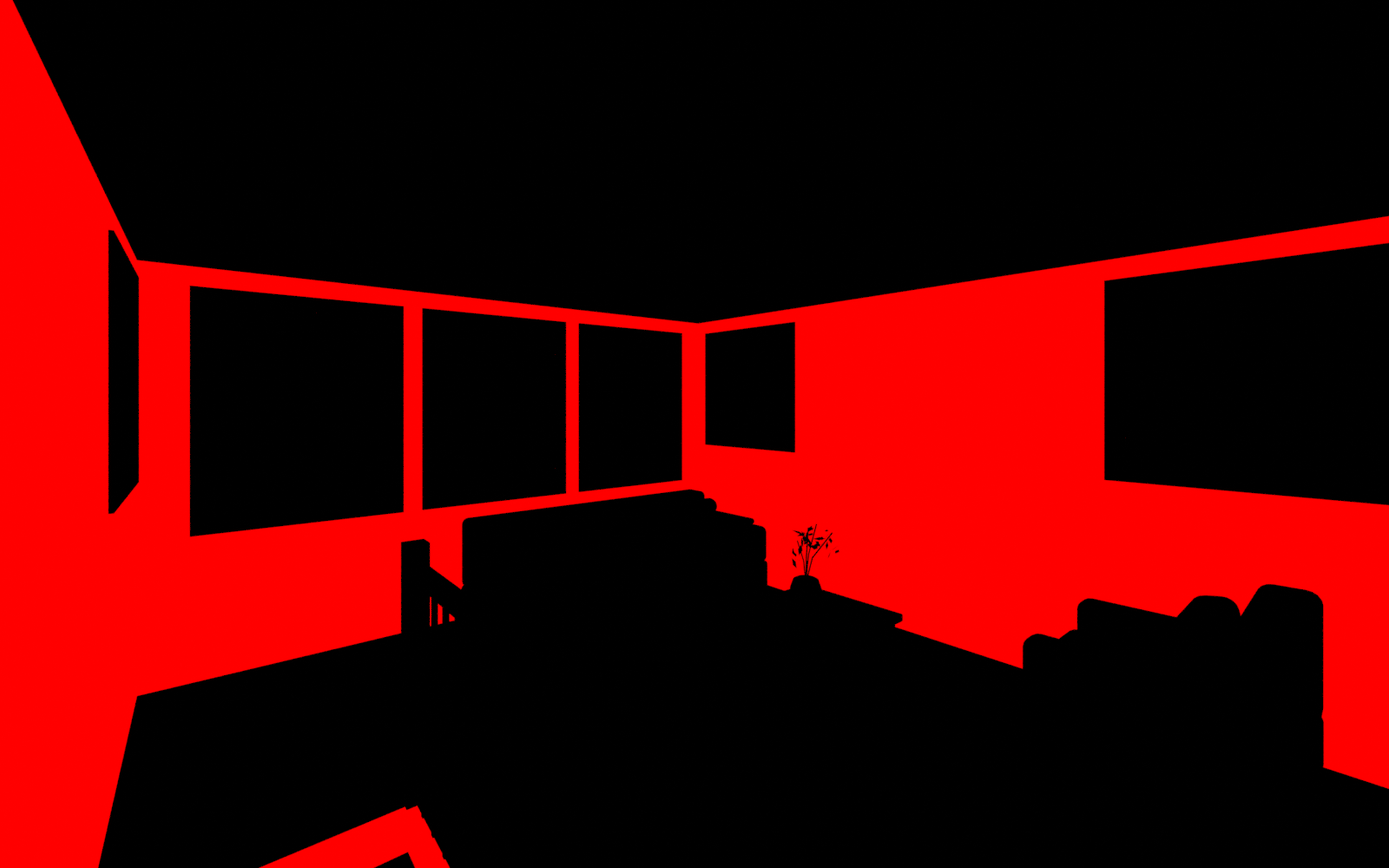
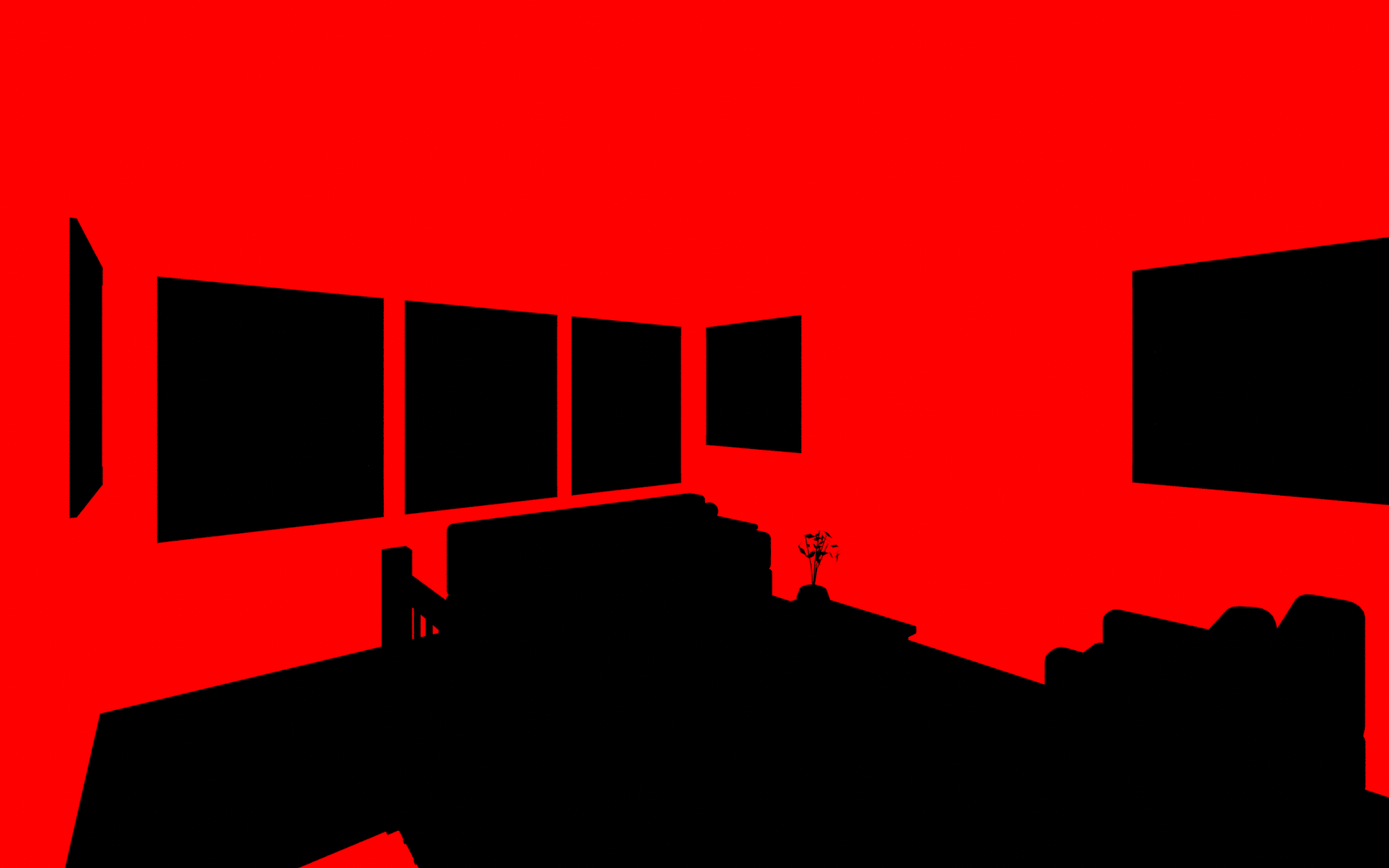
The Lookout 3500 2.0: lookout
The Lookout 3500 2.0 page: a picture redone.

- Lookout room re-rendered: afternoon sun, cased windows, a painted ceiling of its own; crown molding as a choice, flooring, wall paint, window frames and stair finishes as before.

Claude-Session: https://claude.ai/code/session_01LcUu1yMTHs7qUW5E51HSvp

diff --git a/lookout/site.js b/lookout/site.js
@@ -1,1 +1,1 @@
-window.SJ={"name":"The Lookout 3500 2.0","slug":"the-lookout-3500-2","tag":"One-and-a-half-story plan","sub":"Four bedrooms and three and a half baths in 3,760 square feet, with the primary suite on the main level, a lookout room on the roof and a three-car garage.","stats":[["3,760","sq ft finished"],["4","bedrooms"],["3.5","baths"],["3","car garage"],["Main-level","primary suite"],["14 x 16","lookout room"]],"hero":{"day":"img/hero-day.jpg","night":"img/hero-dusk.jpg"},"views":[{"id":"hero","name":"Front","kind":"ext","keys":["fas","fd","fdc","g","gdc","lk","prf","pst","rof","sid","trm","win"]},{"id":"yard","name":"Back yard","kind":"ext","keys":["fas","g","lk","pl","prf","pst","rof","sid","trm","win"]},{"id":"great","name":"Living room","kind":"int","keys":["bi","clg","cr","flr","fp","hwc","idc","ids","wal","win"]},{"id":"kitchen","name":"Kitchen","kind":"int","keys":["bsp","cab","cr","ctr","flr","hwc","isl","wal","win"]},{"id":"dining","name":"Dining room","kind":"int","keys":["cr","flr","wal","win"]},{"id":"foyer","name":"Foyer","kind":"int","keys":["cr","fd","fdc","flr","hwc","sf","sr","wal","win"]},{"id":"primary","name":"Primary bedroom","kind":"int","keys":["cr","flr","wal","win"]},{"id":"bath","name":"Primary bath","kind":"int","keys":["btl","cr","ctr","hwc","shw","vcab","wal","win"],"scope":"pb"},{"id":"office","name":"Loft over the primary closet","kind":"int","keys":["cr","flr","hwc","lof","sf","sr","wal","win"]},{"id":"loft","name":"Upstairs loft","kind":"int","keys":["cr","wal","win"]},{"id":"lookout","name":"Lookout room","kind":"int","keys":["sf","sr","wal","win"],"veil":{"when":{"lk":"0"},"keys":["sf","sr","wal","win"],"note":"Shows in this picture when the lookout room is chosen"}},{"id":"bed2","name":"Bedroom 2","kind":"int","keys":["cpt","cr","uf","wal","win"]},{"id":"bed4","name":"Bedroom 4","kind":"int","keys":["cpt","cr","hwc","idc","ids","uf","wal","win"]},{"id":"bath3","name":"Bath 3","kind":"int","keys":["btl","cr","ctr","hwc","idc","ids","shw","vcab","wal"],"scope":"b3"},{"id":"lounge","name":"Lower level lounge","kind":"int","keys":["b","cab","ctr","hwc","isl","wal"],"veil":{"when":{"b":"u"},"keys":["cab","ctr","hwc","isl","wal"],"note":"Shows in this picture once the lower level is finished"}},{"id":"bar","name":"Lower level bar","kind":"int","keys":["b","ctr","hwc","isl","wal"],"veil":{"when":{"b":"u"},"keys":["ctr","hwc","isl","wal"],"note":"Shows in this picture once the lower level is finished"}}],"baths":[{"id":"pb","name":"Primary bath","keys":["vcab","ctr","shw","btl","hwc","wal"]},{"id":"b3","name":"Bath 3","keys":["vcab","ctr","shw","btl","hwc","wal"]}],"bathkeys":["vcab","ctr","shw","btl","hwc","wal"],"opts":[{"key":"lk","name":"Lookout room","cat":"ext","ch":[{"id":"1","name":"Lookout room on the roof (as drawn)"},{"id":"0","name":"No lookout"}],"note":"The lookout room sits on the roof, 14 x 16 ft with windows all around, reached by its own stair."},{"key":"g","name":"Garage entry","cat":"ext","ch":[{"id":"f","name":"Front entry (as drawn)"},{"id":"s","name":"Side entry, with a motor court"}],"note":"Side entry: the garage wing is re-proportioned and its doors face a motor court at the side; windows take their place on the front."},{"key":"pl","name":"Pool","cat":"ext","ch":[{"id":"n","name":"No pool (as drawn)"},{"id":"1","name":"Lap pool, 10 x 45 ft"},{"id":"2","name":"Plunge pool with a raised spa"},{"id":"3","name":"Courtyard pool with a shade pavilion"}],"note":"The pools sit behind the covered deck, on a paved terrace one step above the lawn."},{"key":"sid","name":"Siding colour","cat":"ext","ch":[{"id":"white","name":"Chantilly White","css":"#F1EFE8"},{"id":"cream","name":"Warm Cream","css":"#E6DCC6"},{"id":"greige","name":"Pebble Greige","css":"#B9B2A3"},{"id":"sage","name":"Sage","css":"#8E9A86"},{"id":"blue","name":"Harbor Blue","css":"#5E768A"},{"id":"navy","name":"Midnight Navy","css":"#28364A"},{"id":"iron","name":"Iron Gray","css":"#45484A"},{"id":"black","name":"Tricorn Black","css":"#222325"}]},{"key":"trm","name":"Trim and corner boards","cat":"ext","ch":[{"id":"white","name":"White","css":"#F4F2EC"},{"id":"cream","name":"Cream","css":"#E9E1CF"},{"id":"black","name":"Black","css":"#1E1F21"},{"id":"bronze","name":"Dark Bronze","css":"#3A322B"}]},{"key":"rof","name":"Roof shingles","cat":"ext","ch":[{"id":"char","name":"Charcoal","css":"linear-gradient(180deg,#33353A 0 50%,#45474C 50%)"},{"id":"onyx","name":"Onyx Black","css":"linear-gradient(180deg,#1D1E21 0 50%,#2A2B2F 50%)"},{"id":"wood","name":"Weathered Wood","css":"linear-gradient(180deg,#5E554B 0 50%,#7A6F62 50%)"},{"id":"slate","name":"Slate Gray","css":"linear-gradient(180deg,#4D5560 0 50%,#69717C 50%)"},{"id":"brown","name":"Barkwood","css":"linear-gradient(180deg,#41342B 0 50%,#5B4A3D 50%)"}]},{"key":"prf","name":"Porch, lookout and accent roofs","cat":"ext","ch":[{"id":"metal","name":"Black standing seam","css":"repeating-linear-gradient(90deg,#1b1c1f 0 7px,#34363a 7px 9px)"},{"id":"copper","name":"Copper standing seam","css":"repeating-linear-gradient(90deg,#9A5A34 0 7px,#c07c4c 7px 9px)"},{"id":"match","name":"Shingles to match","css":"repeating-linear-gradient(0deg,#2a2b2f 0 5px,#1d1e21 5px 10px)"}]},{"key":"fas","name":"Gutters and downspouts","cat":"ext","ch":[{"id":"white","name":"White","css":"#F2F0EA"},{"id":"black","name":"Black","css":"#1B1C1E"},{"id":"bronze","name":"Dark Bronze","css":"#3A322B"}]},{"key":"win","name":"Window frames","cat":"ext","ch":[{"id":"black","name":"Black","css":"#18191B"},{"id":"white","name":"White","css":"#F0EEE8"},{"id":"bronze","name":"Bronze","css":"#3B3129"},{"id":"clay","name":"Clay","css":"#A89F8E"}]},{"key":"fd","name":"Front door","cat":"ext","ch":[{"id":"g","name":"Double doors, glass over a panel"},{"id":"s","name":"Steel-look glass double doors"},{"id":"c","name":"Craftsman door with sidelights"},{"id":"p","name":"Panelled double doors"}],"note":"Every design comes with a transom over the door; its colour is the next choice."},{"key":"fdc","name":"Front door colour","cat":"ext","ch":[{"id":"wood","name":"Stained Walnut","css":"linear-gradient(135deg,#6A4226,#4A2C18)"},{"id":"black","name":"Black","css":"#161719"},{"id":"navy","name":"Navy","css":"#22324A"},{"id":"red","name":"Barn Red","css":"#6E1F1B"},{"id":"teal","name":"Deep Teal","css":"#1F4A4C"},{"id":"sage","name":"Sage","css":"#7C8A74"},{"id":"white","name":"White","css":"#F0EEE8"}]},{"key":"gdc","name":"Garage door colour","cat":"ext","ch":[{"id":"white","name":"White","css":"#EFEDE7"},{"id":"black","name":"Black","css":"#18191B"},{"id":"iron","name":"Iron Gray","css":"#4A4C4E"},{"id":"bronze","name":"Bronze","css":"#3B3129"},{"id":"wood","name":"Walnut","css":"linear-gradient(135deg,#6A4226,#4A2C18)"}]},{"key":"pst","name":"Porch posts and beams","cat":"ext","ch":[{"id":"cedar","name":"Stained cedar","css":"linear-gradient(135deg,#96663A,#774E28)"},{"id":"white","name":"White","css":"#EFEDE7"},{"id":"black","name":"Black","css":"#1F2022"}]},{"key":"b","name":"Lower level","cat":"int","ch":[{"id":"u","name":"Unfinished (as drawn)"},{"id":"f","name":"Finished"}]},{"key":"lof","name":"Loft over the primary closet","cat":"int","ch":[{"id":"o","name":"Home office"},{"id":"l","name":"Library"},{"id":"r","name":"Retreat"}],"note":"The room over the primary closet, up its own spiral stair: 13 x 11 ft with windows on all four sides."},{"key":"clg","name":"Living room ceiling","cat":"int","ch":[{"id":"c","name":"Coffered, painted"},{"id":"o","name":"Coffered, oak beams"},{"id":"b","name":"Timber beams"},{"id":"t","name":"Tray ceiling"}],"note":"Coffers: nine panels framed by beams, centred on the fireplace, with a ring chandelier in the middle."},{"key":"cr","name":"Crown molding","cat":"int","ch":[{"id":"n","name":"None"},{"id":"c","name":"Classic crown, 5 1/4 in."},{"id":"f","name":"Craftsman, flat with a cap"}],"note":"Runs on every wall that meets a flat ceiling: the main level, upstairs, the lookout room, the loft over the closet and the finished lower level."},{"key":"fp","name":"Fireplace","cat":"int","ch":[{"id":"stone","name":"Stacked stone (as drawn)","css":"repeating-linear-gradient(0deg,#8f887c 0 4px,#6f695f 4px 5px)"},{"id":"white","name":"White stacked stone","css":"repeating-linear-gradient(0deg,#E9E6DF 0 4px,#c4c0b7 4px 5px)"},{"id":"brick","name":"Red brick","css":"repeating-linear-gradient(0deg,#8E4A36 0 5px,#B9B2A6 5px 6px)"},{"id":"wbrick","name":"White painted brick","css":"repeating-linear-gradient(0deg,#EDEAE3 0 5px,#cfcbc2 5px 6px)"},{"id":"slate","name":"Charcoal slate tile","css":"repeating-linear-gradient(90deg,#3B3D40 0 12px,#1F2022 12px 13px)"}]},{"key":"bi","name":"Fireplace built-ins","cat":"int","ch":[{"id":"c","name":"Cabinets with oak tops (as drawn)"},{"id":"s","name":"Cabinets and shelves to the ceiling"},{"id":"n","name":"None"}],"note":"The built-ins stand on both sides of the fireplace."},{"key":"ids","name":"Interior door style","cat":"int","ch":[{"id":"s","name":"Two-panel Shaker"},{"id":"f","name":"Five-panel"},{"id":"c","name":"Craftsman, three-panel"}],"note":"8 ft doors on the main level, 6 ft 8 in. upstairs; every opening is cased, with a cap over the head."},{"key":"idc","name":"Interior doors","cat":"int","ch":[{"id":"white","name":"White","css":"#F2F0EA"},{"id":"black","name":"Black","css":"#1E1F21"},{"id":"grey","name":"Gray","css":"#8F9190"},{"id":"oak","name":"Natural oak","css":"linear-gradient(135deg,#B9905E,#A67C4C)"}]},{"key":"sf","name":"Stair treads and handrails","cat":"int","ch":[{"id":"o","name":"Natural oak (as drawn)","css":"linear-gradient(135deg,#B9905E,#A67C4C)"},{"id":"d","name":"Walnut","css":"linear-gradient(135deg,#6A4A32,#573B27)"},{"id":"k","name":"Ebony","css":"linear-gradient(135deg,#30261F,#211A15)"},{"id":"w","name":"Whitewashed oak","css":"linear-gradient(135deg,#D9CDB8,#C9BCA4)"}]},{"key":"sr","name":"Stair balusters","cat":"int","ch":[{"id":"k","name":"Black iron","css":"#141414"},{"id":"w","name":"White","css":"#EFEDE7"},{"id":"b","name":"Satin brass","css":"#B08A4A"}]},{"key":"flr","name":"Hardwood flooring","cat":"int","ch":[{"id":"oak","name":"Natural Oak Plank","css":"repeating-linear-gradient(90deg,#B08F68 0 9px,#9C7B55 9px 18px)"},{"id":"honey","name":"Honey Oak","css":"repeating-linear-gradient(90deg,#B8834A 0 9px,#A2703C 9px 18px)"},{"id":"grey","name":"Driftwood Gray","css":"repeating-linear-gradient(90deg,#9A9288 0 9px,#857D73 9px 18px)"},{"id":"walnut","name":"Walnut","css":"repeating-linear-gradient(90deg,#6A4A32 0 9px,#573B27 9px 18px)"},{"id":"white","name":"Whitewashed","css":"repeating-linear-gradient(90deg,#CFC3B0 0 9px,#BFB29E 9px 18px)"}]},{"key":"uf","name":"Bedroom flooring","cat":"int","ch":[{"id":"c","name":"Carpet (as shown)","css":"repeating-linear-gradient(45deg,#C9C0AE 0 3px,#BDB4A2 3px 6px)"},{"id":"oak","name":"Natural Oak Plank","css":"repeating-linear-gradient(90deg,#B08F68 0 9px,#9C7B55 9px 18px)"},{"id":"honey","name":"Honey Oak","css":"repeating-linear-gradient(90deg,#B8834A 0 9px,#A2703C 9px 18px)"},{"id":"grey","name":"Driftwood Gray","css":"repeating-linear-gradient(90deg,#9A9288 0 9px,#857D73 9px 18px)"},{"id":"walnut","name":"Walnut","css":"repeating-linear-gradient(90deg,#6A4A32 0 9px,#573B27 9px 18px)"},{"id":"white","name":"Whitewashed","css":"repeating-linear-gradient(90deg,#CFC3B0 0 9px,#BFB29E 9px 18px)"}]},{"key":"cpt","name":"Carpet","cat":"int","ch":[{"id":"oat","name":"Oatmeal","css":"#C9C0AE"},{"id":"grey","name":"Silver","css":"#B5B3AE"},{"id":"taupe","name":"Taupe","css":"#A39685"}],"only":{"uf":"c"}},{"key":"wal","name":"Wall paint","cat":"int","ch":[{"id":"alab","name":"Alabaster","css":"#EDEAE0"},{"id":"grey","name":"Agreeable Gray","css":"#D1CBC1"},{"id":"greige","name":"Accessible Beige","css":"#D1C7B8"},{"id":"blue","name":"Sea Salt","css":"#CDD2CA"},{"id":"white","name":"Pure White","css":"#F2F0EB"}],"bname":"Wall paint"},{"key":"cab","name":"Kitchen cabinets","cat":"int","ch":[{"id":"white","name":"White Shaker","css":"#EFEDE7"},{"id":"grey","name":"Dove Gray","css":"#A9ABA8"},{"id":"sage","name":"Sage","css":"#8A967F"},{"id":"navy","name":"Navy","css":"#27364B"},{"id":"black","name":"Black","css":"#1F2022"},{"id":"oak","name":"Natural Oak","css":"linear-gradient(135deg,#B9905E,#A67C4C)"}]},{"key":"isl","name":"Island and range hood","cat":"int","ch":[{"id":"navy","name":"Navy","css":"#27364B"},{"id":"white","name":"White","css":"#EFEDE7"},{"id":"oak","name":"Natural Oak","css":"linear-gradient(135deg,#B9905E,#A67C4C)"},{"id":"black","name":"Black","css":"#1F2022"},{"id":"sage","name":"Sage","css":"#8A967F"}]},{"key":"ctr","name":"Countertops","cat":"int","ch":[{"id":"white","name":"White Quartz","css":"#EEEBE4"},{"id":"marble","name":"Marble-look Quartz","css":"linear-gradient(120deg,#ECE9E3 0 40%,#b9b6ae 44%,#ECE9E3 48% 70%,#c9c6be 74%,#ECE9E3 78%)"},{"id":"black","name":"Black Granite","css":"linear-gradient(120deg,#17181A 0 55%,#4a4a48 60%,#17181A 65%)"},{"id":"grey","name":"Concrete Gray","css":"#9A9894"}],"bname":"Vanity tops"},{"key":"bsp","name":"Backsplash","cat":"int","ch":[{"id":"slab","name":"Marble slab","css":"linear-gradient(120deg,#ECE9E3 0 40%,#b9b6ae 44%,#ECE9E3 48% 70%,#c9c6be 74%,#ECE9E3 78%)"},{"id":"subway","name":"White Subway","css":"repeating-linear-gradient(0deg,#F0EEE8 0 8px,#cfccc4 8px 9px)"},{"id":"green","name":"Sage Zellige","css":"repeating-linear-gradient(0deg,#8FA08A 0 8px,#6f806a 8px 9px)"},{"id":"grey","name":"Gray Subway","css":"repeating-linear-gradient(0deg,#B4B6B4 0 8px,#8f918f 8px 9px)"},{"id":"black","name":"Black Subway","css":"repeating-linear-gradient(0deg,#232426 0 8px,#6A6A68 8px 9px)"}]},{"key":"vcab","name":"Bathroom vanities","cat":"int","ch":[{"id":"oak","name":"Natural oak","css":"linear-gradient(135deg,#B9905E,#A67C4C)"},{"id":"white","name":"White","css":"#EFEDE7"},{"id":"navy","name":"Navy","css":"#27364B"},{"id":"sage","name":"Sage","css":"#8A967F"},{"id":"black","name":"Black","css":"#1F2022"},{"id":"walnut","name":"Walnut","css":"linear-gradient(135deg,#6A4A32,#573B27)"}],"bname":"Vanity cabinets","bathonly":1},{"key":"shw","name":"Shower walls","cat":"int","ch":[{"id":"slab","name":"Marble slab","css":"linear-gradient(120deg,#ECE9E3 0 40%,#b9b6ae 44%,#ECE9E3 48% 70%,#c9c6be 74%,#ECE9E3 78%)"},{"id":"subway","name":"White subway tile","css":"repeating-linear-gradient(0deg,#F0EEE8 0 8px,#cfccc4 8px 9px)"},{"id":"zel","name":"Sage zellige","css":"repeating-linear-gradient(0deg,#8FA08A 0 8px,#6f806a 8px 9px)"},{"id":"slate","name":"Charcoal slate","css":"repeating-linear-gradient(90deg,#3B3D40 0 14px,#1F2022 14px 15px)"},{"id":"trav","name":"Warm limestone","css":"repeating-linear-gradient(90deg,#D9CDB8 0 14px,#B8AC96 14px 15px)"}],"note":"The primary bath's wet room, and the wall behind the tub in each upstairs bath.","bname":"Shower walls","bathonly":1},{"key":"btl","name":"Bath floor tile","cat":"int","ch":[{"id":"w","name":"White porcelain","css":"repeating-linear-gradient(90deg,#EDEBE6 0 12px,#B9B6AE 12px 13px)"},{"id":"g","name":"Warm gray","css":"repeating-linear-gradient(90deg,#B9B2A6 0 12px,#8C867B 12px 13px)"},{"id":"m","name":"Marble look","css":"linear-gradient(120deg,#ECEAE6 0 40%,#c4c1bb 46%,#ECEAE6 52%)"},{"id":"c","name":"Charcoal slate","css":"repeating-linear-gradient(90deg,#4A4C4F 0 12px,#2C2D2F 12px 13px)"}],"bname":"Floor tile","bathonly":1},{"key":"hwc","name":"Hardware and faucets","cat":"int","ch":[{"id":"brass","name":"Satin Brass","css":"#B08A4A"},{"id":"black","name":"Matte Black","css":"#101011"},{"id":"nickel","name":"Satin Nickel","css":"#9A9A98"}],"bname":"Faucets and hardware"}],"defaults":{"sid":"white","trm":"white","fas":"white","win":"black","fdc":"wood","gdc":"white","rof":"char","prf":"metal","lk":"1","g":"f","b":"u","pl":"n","fd":"g","pst":"cedar","clg":"c","cr":"n","fp":"stone","bi":"c","sf":"o","sr":"k","idc":"white","ids":"s","lof":"o","hwc":"brass","wal":"alab","cab":"white","isl":"navy","ctr":"marble","bsp":"slab","vcab":"oak","shw":"slab","btl":"w","flr":"oak","cpt":"oat","uf":"c"},"gallery":[],"looks":[{"cat":"ext","name":"Modern farmhouse (as drawn)","set":{}},{"cat":"ext","name":"Midnight and copper","set":{"sid":"navy","prf":"copper","gdc":"wood","rof":"onyx"}},{"cat":"ext","name":"Sage cottage","set":{"sid":"sage","trm":"cream","fas":"bronze","win":"white","rof":"wood","fdc":"navy","fd":"c"}},{"cat":"ext","name":"Charcoal modern","set":{"sid":"iron","trm":"black","fas":"black","rof":"onyx","gdc":"black","fdc":"black","fd":"s"}},{"cat":"ext","name":"Coastal blue","set":{"sid":"blue","win":"white","rof":"slate","fdc":"navy"}},{"cat":"ext","name":"Warm greige","set":{"sid":"greige","trm":"cream","fas":"bronze","win":"bronze","rof":"brown","gdc":"bronze","fd":"p"}},{"cat":"ext","name":"Black barn","set":{"sid":"black","trm":"black","fas":"black","gdc":"wood","prf":"copper","fd":"p"}},{"cat":"int","name":"Light and warm (as shown)","set":{}},{"cat":"int","name":"Warm oak","set":{"isl":"oak","ctr":"marble","flr":"honey","wal":"greige","clg":"o","cr":"f","ids":"c"}},{"cat":"int","name":"Deep and moody","set":{"cab":"navy","bsp":"grey","flr":"walnut","wal":"grey","idc":"black","clg":"b","cr":"c","vcab":"navy","shw":"slate","lof":"l"}},{"cat":"int","name":"Scandinavian","set":{"isl":"white","flr":"white","wal":"white","hwc":"black","clg":"t","ids":"f","vcab":"white","shw":"subway"}},{"cat":"int","name":"Sage kitchen","set":{"cab":"sage","isl":"oak","bsp":"green","vcab":"sage","shw":"zel","lof":"r"}},{"cat":"int","name":"Black and white","set":{"cab":"black","isl":"white","ctr":"marble","flr":"grey","wal":"white","hwc":"nickel","idc":"black","ids":"c","cr":"c","vcab":"black","shw":"subway"}},{"cat":"int","name":"Everything added","set":{"cr":"c","clg":"o","bi":"s","ids":"c","lof":"l","b":"f"}}],"plan_lead":"Each level seen from straight above, with everything over it taken away. Furniture is illustrative.","plans":[{"id":"main_f","name":"Main level","note":"2,144 sq ft: living, dining and kitchen in the core, the primary suite in its own wing, a three-car garage","svg":"<img src=\"img/plan-main_f.jpg\" alt=\"Main level, seen from above with the levels over it taken away\" style=\"width:100%;height:auto;display:block;border-radius:10px\">"},{"id":"main_s","name":"Main level, side-entry garage","note":"The same rooms; the garage wing is re-proportioned and entered from a motor court at the side","svg":"<img src=\"img/plan-main_s.jpg\" alt=\"Main level, side-entry garage, seen from above with the levels over it taken away\" style=\"width:100%;height:auto;display:block;border-radius:10px\">"},{"id":"upper","name":"Upstairs","note":"1,224 sq ft: three bedrooms, two baths, the loft and a laundry; the office loft sits over the primary closet","svg":"<img src=\"img/plan-upper.jpg\" alt=\"Upstairs, seen from above with the levels over it taken away\" style=\"width:100%;height:auto;display:block;border-radius:10px\">"},{"id":"look","name":"Lookout","note":"224 sq ft: the lookout room on the roof, windows on all four sides","svg":"<img src=\"img/plan-look.jpg\" alt=\"Lookout, seen from above with the levels over it taken away\" style=\"width:100%;height:auto;display:block;border-radius:10px\">"},{"id":"bsmt_u","name":"Lower level","note":"Unfinished, as drawn: a safe room, mechanical space and rough-ins for a bath and a wet bar","svg":"<img src=\"img/plan-bsmt_u.jpg\" alt=\"Lower level, seen from above with the levels over it taken away\" style=\"width:100%;height:auto;display:block;border-radius:10px\">"},{"id":"bsmt_f","name":"Lower level, finished","note":"Lounge, bar, gym, bath and sauna, with the safe room, storage and mechanical space","svg":"<img src=\"img/plan-bsmt_f.jpg\" alt=\"Lower level, finished, seen from above with the levels over it taken away\" style=\"width:100%;height:auto;display:block;border-radius:10px\">"}],"lot":null,"specs":[{"h":"The home","items":["3,760 sq ft finished: 2,144 on the main level, 1,224 upstairs, a 168 sq ft office loft and the 224 sq ft lookout room","Four bedrooms and three and a half baths; the primary suite is on the main level in its own wing","The primary suite: a 20 x 20 bedroom with a door to the covered deck, a spa bath and a walk-in closet, about 800 sq ft in all","Three-car garage in a wing of its own, front entry or side entry","Core 34 x 36 ft, two stories; the garage wing 32 x 24 ft and the primary wing 20 x 46 ft are one story"]},{"h":"Rooms","items":["Main level: foyer, dining room, living room with a fireplace and a 12 ft slider to the covered deck, kitchen with a prep kitchen and pantry, mudroom, powder room, laundry","Upstairs: three bedrooms, two baths, a loft, a second laundry","An office loft over the primary closet, reached by its own spiral stair","The lookout room: 14 x 16 ft on the roof, windows on all four sides"]},{"h":"Heights and roof","items":["10 ft ceilings on the main level","Gable roofs with standing-seam accents over the porch, the lookout and the garage doors","Covered 16 x 14 ft deck off the living room; covered front porch on timber posts"]},{"h":"Inside finish","items":["Living room ceiling: nine coffers centred on the fireplace with a ring chandelier, painted or in oak; timber beams or a tray ceiling instead","Doors: 8 ft on the main level and 6 ft 8 in. upstairs, in three panel styles, every opening cased with a cap over the head","Crown molding as a choice on every level, classic or craftsman","Front door in four designs under a transom: glass over a panel, steel-look glass, craftsman with sidelights, or panelled","Baths: vanity cabinets and shower walls chosen apart from the kitchen","The loft over the primary closet as a home office, a library or a retreat"]},{"h":"Outside","items":["Board-and-batten siding with trim boards at corners and openings","Black-framed windows with grids","A full basement under the core"]}],"foot":["The pictures and the design studio on this page are computer renderings of a 3D model of the plan. Furniture, planting and the land around the house are illustrative; the plan is not drawn on a particular lot.","Finishes offered in the design studio are examples for planning, not a builder's price list. A builder's plan set and contract govern."],"tour":null,"model3d":{"src":"3d/","poster":"img/hero-day.jpg"}};
+window.SJ={"name":"The Lookout 3500 2.0","slug":"the-lookout-3500-2","tag":"One-and-a-half-story plan","sub":"Four bedrooms and three and a half baths in 3,760 square feet, with the primary suite on the main level, a lookout room on the roof and a three-car garage.","stats":[["3,760","sq ft finished"],["4","bedrooms"],["3.5","baths"],["3","car garage"],["Main-level","primary suite"],["14 x 16","lookout room"]],"hero":{"day":"img/hero-day.jpg","night":"img/hero-dusk.jpg"},"views":[{"id":"hero","name":"Front","kind":"ext","keys":["fas","fd","fdc","g","gdc","lk","prf","pst","rof","sid","trm","win"]},{"id":"yard","name":"Back yard","kind":"ext","keys":["fas","g","lk","pl","prf","pst","rof","sid","trm","win"]},{"id":"great","name":"Living room","kind":"int","keys":["bi","clg","cr","flr","fp","hwc","idc","ids","wal","win"]},{"id":"kitchen","name":"Kitchen","kind":"int","keys":["bsp","cab","cr","ctr","flr","hwc","isl","wal","win"]},{"id":"dining","name":"Dining room","kind":"int","keys":["cr","flr","wal","win"]},{"id":"foyer","name":"Foyer","kind":"int","keys":["cr","fd","fdc","flr","hwc","sf","sr","wal","win"]},{"id":"primary","name":"Primary bedroom","kind":"int","keys":["cr","flr","wal","win"]},{"id":"bath","name":"Primary bath","kind":"int","keys":["btl","cr","ctr","hwc","shw","vcab","wal","win"],"scope":"pb"},{"id":"office","name":"Loft over the primary closet","kind":"int","keys":["cr","flr","hwc","lof","sf","sr","wal","win"]},{"id":"loft","name":"Upstairs loft","kind":"int","keys":["cr","wal","win"]},{"id":"lookout","name":"Lookout room","kind":"int","keys":["cr","flr","sf","sr","wal","win"],"veil":{"when":{"lk":"0"},"keys":["cr","flr","sf","sr","wal","win"],"note":"Shows in this picture when the lookout room is chosen"}},{"id":"bed2","name":"Bedroom 2","kind":"int","keys":["cpt","cr","uf","wal","win"]},{"id":"bed4","name":"Bedroom 4","kind":"int","keys":["cpt","cr","hwc","idc","ids","uf","wal","win"]},{"id":"bath3","name":"Bath 3","kind":"int","keys":["btl","cr","ctr","hwc","idc","ids","shw","vcab","wal"],"scope":"b3"},{"id":"lounge","name":"Lower level lounge","kind":"int","keys":["b","cab","ctr","hwc","isl","wal"],"veil":{"when":{"b":"u"},"keys":["cab","ctr","hwc","isl","wal"],"note":"Shows in this picture once the lower level is finished"}},{"id":"bar","name":"Lower level bar","kind":"int","keys":["b","ctr","hwc","isl","wal"],"veil":{"when":{"b":"u"},"keys":["ctr","hwc","isl","wal"],"note":"Shows in this picture once the lower level is finished"}}],"baths":[{"id":"pb","name":"Primary bath","keys":["vcab","ctr","shw","btl","hwc","wal"]},{"id":"b3","name":"Bath 3","keys":["vcab","ctr","shw","btl","hwc","wal"]}],"bathkeys":["vcab","ctr","shw","btl","hwc","wal"],"opts":[{"key":"lk","name":"Lookout room","cat":"ext","ch":[{"id":"1","name":"Lookout room on the roof (as drawn)"},{"id":"0","name":"No lookout"}],"note":"The lookout room sits on the roof, 14 x 16 ft with windows all around, reached by its own stair."},{"key":"g","name":"Garage entry","cat":"ext","ch":[{"id":"f","name":"Front entry (as drawn)"},{"id":"s","name":"Side entry, with a motor court"}],"note":"Side entry: the garage wing is re-proportioned and its doors face a motor court at the side; windows take their place on the front."},{"key":"pl","name":"Pool","cat":"ext","ch":[{"id":"n","name":"No pool (as drawn)"},{"id":"1","name":"Lap pool, 10 x 45 ft"},{"id":"2","name":"Plunge pool with a raised spa"},{"id":"3","name":"Courtyard pool with a shade pavilion"}],"note":"The pools sit behind the covered deck, on a paved terrace one step above the lawn."},{"key":"sid","name":"Siding colour","cat":"ext","ch":[{"id":"white","name":"Chantilly White","css":"#F1EFE8"},{"id":"cream","name":"Warm Cream","css":"#E6DCC6"},{"id":"greige","name":"Pebble Greige","css":"#B9B2A3"},{"id":"sage","name":"Sage","css":"#8E9A86"},{"id":"blue","name":"Harbor Blue","css":"#5E768A"},{"id":"navy","name":"Midnight Navy","css":"#28364A"},{"id":"iron","name":"Iron Gray","css":"#45484A"},{"id":"black","name":"Tricorn Black","css":"#222325"}]},{"key":"trm","name":"Trim and corner boards","cat":"ext","ch":[{"id":"white","name":"White","css":"#F4F2EC"},{"id":"cream","name":"Cream","css":"#E9E1CF"},{"id":"black","name":"Black","css":"#1E1F21"},{"id":"bronze","name":"Dark Bronze","css":"#3A322B"}]},{"key":"rof","name":"Roof shingles","cat":"ext","ch":[{"id":"char","name":"Charcoal","css":"linear-gradient(180deg,#33353A 0 50%,#45474C 50%)"},{"id":"onyx","name":"Onyx Black","css":"linear-gradient(180deg,#1D1E21 0 50%,#2A2B2F 50%)"},{"id":"wood","name":"Weathered Wood","css":"linear-gradient(180deg,#5E554B 0 50%,#7A6F62 50%)"},{"id":"slate","name":"Slate Gray","css":"linear-gradient(180deg,#4D5560 0 50%,#69717C 50%)"},{"id":"brown","name":"Barkwood","css":"linear-gradient(180deg,#41342B 0 50%,#5B4A3D 50%)"}]},{"key":"prf","name":"Porch, lookout and accent roofs","cat":"ext","ch":[{"id":"metal","name":"Black standing seam","css":"repeating-linear-gradient(90deg,#1b1c1f 0 7px,#34363a 7px 9px)"},{"id":"copper","name":"Copper standing seam","css":"repeating-linear-gradient(90deg,#9A5A34 0 7px,#c07c4c 7px 9px)"},{"id":"match","name":"Shingles to match","css":"repeating-linear-gradient(0deg,#2a2b2f 0 5px,#1d1e21 5px 10px)"}]},{"key":"fas","name":"Gutters and downspouts","cat":"ext","ch":[{"id":"white","name":"White","css":"#F2F0EA"},{"id":"black","name":"Black","css":"#1B1C1E"},{"id":"bronze","name":"Dark Bronze","css":"#3A322B"}]},{"key":"win","name":"Window frames","cat":"ext","ch":[{"id":"black","name":"Black","css":"#18191B"},{"id":"white","name":"White","css":"#F0EEE8"},{"id":"bronze","name":"Bronze","css":"#3B3129"},{"id":"clay","name":"Clay","css":"#A89F8E"}]},{"key":"fd","name":"Front door","cat":"ext","ch":[{"id":"g","name":"Double doors, glass over a panel"},{"id":"s","name":"Steel-look glass double doors"},{"id":"c","name":"Craftsman door with sidelights"},{"id":"p","name":"Panelled double doors"}],"note":"Every design comes with a transom over the door; its colour is the next choice."},{"key":"fdc","name":"Front door colour","cat":"ext","ch":[{"id":"wood","name":"Stained Walnut","css":"linear-gradient(135deg,#6A4226,#4A2C18)"},{"id":"black","name":"Black","css":"#161719"},{"id":"navy","name":"Navy","css":"#22324A"},{"id":"red","name":"Barn Red","css":"#6E1F1B"},{"id":"teal","name":"Deep Teal","css":"#1F4A4C"},{"id":"sage","name":"Sage","css":"#7C8A74"},{"id":"white","name":"White","css":"#F0EEE8"}]},{"key":"gdc","name":"Garage door colour","cat":"ext","ch":[{"id":"white","name":"White","css":"#EFEDE7"},{"id":"black","name":"Black","css":"#18191B"},{"id":"iron","name":"Iron Gray","css":"#4A4C4E"},{"id":"bronze","name":"Bronze","css":"#3B3129"},{"id":"wood","name":"Walnut","css":"linear-gradient(135deg,#6A4226,#4A2C18)"}]},{"key":"pst","name":"Porch posts and beams","cat":"ext","ch":[{"id":"cedar","name":"Stained cedar","css":"linear-gradient(135deg,#96663A,#774E28)"},{"id":"white","name":"White","css":"#EFEDE7"},{"id":"black","name":"Black","css":"#1F2022"}]},{"key":"b","name":"Lower level","cat":"int","ch":[{"id":"u","name":"Unfinished (as drawn)"},{"id":"f","name":"Finished"}]},{"key":"lof","name":"Loft over the primary closet","cat":"int","ch":[{"id":"o","name":"Home office"},{"id":"l","name":"Library"},{"id":"r","name":"Retreat"}],"note":"The room over the primary closet, up its own spiral stair: 13 x 11 ft with windows on all four sides."},{"key":"clg","name":"Living room ceiling","cat":"int","ch":[{"id":"c","name":"Coffered, painted"},{"id":"o","name":"Coffered, oak beams"},{"id":"b","name":"Timber beams"},{"id":"t","name":"Tray ceiling"}],"note":"Coffers: nine panels framed by beams, centred on the fireplace, with a ring chandelier in the middle."},{"key":"cr","name":"Crown molding","cat":"int","ch":[{"id":"n","name":"None"},{"id":"c","name":"Classic crown, 5 1/4 in."},{"id":"f","name":"Craftsman, flat with a cap"}],"note":"Runs on every wall that meets a flat ceiling: the main level, upstairs, the lookout room, the loft over the closet and the finished lower level."},{"key":"fp","name":"Fireplace","cat":"int","ch":[{"id":"stone","name":"Stacked stone (as drawn)","css":"repeating-linear-gradient(0deg,#8f887c 0 4px,#6f695f 4px 5px)"},{"id":"white","name":"White stacked stone","css":"repeating-linear-gradient(0deg,#E9E6DF 0 4px,#c4c0b7 4px 5px)"},{"id":"brick","name":"Red brick","css":"repeating-linear-gradient(0deg,#8E4A36 0 5px,#B9B2A6 5px 6px)"},{"id":"wbrick","name":"White painted brick","css":"repeating-linear-gradient(0deg,#EDEAE3 0 5px,#cfcbc2 5px 6px)"},{"id":"slate","name":"Charcoal slate tile","css":"repeating-linear-gradient(90deg,#3B3D40 0 12px,#1F2022 12px 13px)"}]},{"key":"bi","name":"Fireplace built-ins","cat":"int","ch":[{"id":"c","name":"Cabinets with oak tops (as drawn)"},{"id":"s","name":"Cabinets and shelves to the ceiling"},{"id":"n","name":"None"}],"note":"The built-ins stand on both sides of the fireplace."},{"key":"ids","name":"Interior door style","cat":"int","ch":[{"id":"s","name":"Two-panel Shaker"},{"id":"f","name":"Five-panel"},{"id":"c","name":"Craftsman, three-panel"}],"note":"8 ft doors on the main level, 6 ft 8 in. upstairs; every opening is cased, with a cap over the head."},{"key":"idc","name":"Interior doors","cat":"int","ch":[{"id":"white","name":"White","css":"#F2F0EA"},{"id":"black","name":"Black","css":"#1E1F21"},{"id":"grey","name":"Gray","css":"#8F9190"},{"id":"oak","name":"Natural oak","css":"linear-gradient(135deg,#B9905E,#A67C4C)"}]},{"key":"sf","name":"Stair treads and handrails","cat":"int","ch":[{"id":"o","name":"Natural oak (as drawn)","css":"linear-gradient(135deg,#B9905E,#A67C4C)"},{"id":"d","name":"Walnut","css":"linear-gradient(135deg,#6A4A32,#573B27)"},{"id":"k","name":"Ebony","css":"linear-gradient(135deg,#30261F,#211A15)"},{"id":"w","name":"Whitewashed oak","css":"linear-gradient(135deg,#D9CDB8,#C9BCA4)"}]},{"key":"sr","name":"Stair balusters","cat":"int","ch":[{"id":"k","name":"Black iron","css":"#141414"},{"id":"w","name":"White","css":"#EFEDE7"},{"id":"b","name":"Satin brass","css":"#B08A4A"}]},{"key":"flr","name":"Hardwood flooring","cat":"int","ch":[{"id":"oak","name":"Natural Oak Plank","css":"repeating-linear-gradient(90deg,#B08F68 0 9px,#9C7B55 9px 18px)"},{"id":"honey","name":"Honey Oak","css":"repeating-linear-gradient(90deg,#B8834A 0 9px,#A2703C 9px 18px)"},{"id":"grey","name":"Driftwood Gray","css":"repeating-linear-gradient(90deg,#9A9288 0 9px,#857D73 9px 18px)"},{"id":"walnut","name":"Walnut","css":"repeating-linear-gradient(90deg,#6A4A32 0 9px,#573B27 9px 18px)"},{"id":"white","name":"Whitewashed","css":"repeating-linear-gradient(90deg,#CFC3B0 0 9px,#BFB29E 9px 18px)"}]},{"key":"uf","name":"Bedroom flooring","cat":"int","ch":[{"id":"c","name":"Carpet (as shown)","css":"repeating-linear-gradient(45deg,#C9C0AE 0 3px,#BDB4A2 3px 6px)"},{"id":"oak","name":"Natural Oak Plank","css":"repeating-linear-gradient(90deg,#B08F68 0 9px,#9C7B55 9px 18px)"},{"id":"honey","name":"Honey Oak","css":"repeating-linear-gradient(90deg,#B8834A 0 9px,#A2703C 9px 18px)"},{"id":"grey","name":"Driftwood Gray","css":"repeating-linear-gradient(90deg,#9A9288 0 9px,#857D73 9px 18px)"},{"id":"walnut","name":"Walnut","css":"repeating-linear-gradient(90deg,#6A4A32 0 9px,#573B27 9px 18px)"},{"id":"white","name":"Whitewashed","css":"repeating-linear-gradient(90deg,#CFC3B0 0 9px,#BFB29E 9px 18px)"}]},{"key":"cpt","name":"Carpet","cat":"int","ch":[{"id":"oat","name":"Oatmeal","css":"#C9C0AE"},{"id":"grey","name":"Silver","css":"#B5B3AE"},{"id":"taupe","name":"Taupe","css":"#A39685"}],"only":{"uf":"c"}},{"key":"wal","name":"Wall paint","cat":"int","ch":[{"id":"alab","name":"Alabaster","css":"#EDEAE0"},{"id":"grey","name":"Agreeable Gray","css":"#D1CBC1"},{"id":"greige","name":"Accessible Beige","css":"#D1C7B8"},{"id":"blue","name":"Sea Salt","css":"#CDD2CA"},{"id":"white","name":"Pure White","css":"#F2F0EB"}],"bname":"Wall paint"},{"key":"cab","name":"Kitchen cabinets","cat":"int","ch":[{"id":"white","name":"White Shaker","css":"#EFEDE7"},{"id":"grey","name":"Dove Gray","css":"#A9ABA8"},{"id":"sage","name":"Sage","css":"#8A967F"},{"id":"navy","name":"Navy","css":"#27364B"},{"id":"black","name":"Black","css":"#1F2022"},{"id":"oak","name":"Natural Oak","css":"linear-gradient(135deg,#B9905E,#A67C4C)"}]},{"key":"isl","name":"Island and range hood","cat":"int","ch":[{"id":"navy","name":"Navy","css":"#27364B"},{"id":"white","name":"White","css":"#EFEDE7"},{"id":"oak","name":"Natural Oak","css":"linear-gradient(135deg,#B9905E,#A67C4C)"},{"id":"black","name":"Black","css":"#1F2022"},{"id":"sage","name":"Sage","css":"#8A967F"}]},{"key":"ctr","name":"Countertops","cat":"int","ch":[{"id":"white","name":"White Quartz","css":"#EEEBE4"},{"id":"marble","name":"Marble-look Quartz","css":"linear-gradient(120deg,#ECE9E3 0 40%,#b9b6ae 44%,#ECE9E3 48% 70%,#c9c6be 74%,#ECE9E3 78%)"},{"id":"black","name":"Black Granite","css":"linear-gradient(120deg,#17181A 0 55%,#4a4a48 60%,#17181A 65%)"},{"id":"grey","name":"Concrete Gray","css":"#9A9894"}],"bname":"Vanity tops"},{"key":"bsp","name":"Backsplash","cat":"int","ch":[{"id":"slab","name":"Marble slab","css":"linear-gradient(120deg,#ECE9E3 0 40%,#b9b6ae 44%,#ECE9E3 48% 70%,#c9c6be 74%,#ECE9E3 78%)"},{"id":"subway","name":"White Subway","css":"repeating-linear-gradient(0deg,#F0EEE8 0 8px,#cfccc4 8px 9px)"},{"id":"green","name":"Sage Zellige","css":"repeating-linear-gradient(0deg,#8FA08A 0 8px,#6f806a 8px 9px)"},{"id":"grey","name":"Gray Subway","css":"repeating-linear-gradient(0deg,#B4B6B4 0 8px,#8f918f 8px 9px)"},{"id":"black","name":"Black Subway","css":"repeating-linear-gradient(0deg,#232426 0 8px,#6A6A68 8px 9px)"}]},{"key":"vcab","name":"Bathroom vanities","cat":"int","ch":[{"id":"oak","name":"Natural oak","css":"linear-gradient(135deg,#B9905E,#A67C4C)"},{"id":"white","name":"White","css":"#EFEDE7"},{"id":"navy","name":"Navy","css":"#27364B"},{"id":"sage","name":"Sage","css":"#8A967F"},{"id":"black","name":"Black","css":"#1F2022"},{"id":"walnut","name":"Walnut","css":"linear-gradient(135deg,#6A4A32,#573B27)"}],"bname":"Vanity cabinets","bathonly":1},{"key":"shw","name":"Shower walls","cat":"int","ch":[{"id":"slab","name":"Marble slab","css":"linear-gradient(120deg,#ECE9E3 0 40%,#b9b6ae 44%,#ECE9E3 48% 70%,#c9c6be 74%,#ECE9E3 78%)"},{"id":"subway","name":"White subway tile","css":"repeating-linear-gradient(0deg,#F0EEE8 0 8px,#cfccc4 8px 9px)"},{"id":"zel","name":"Sage zellige","css":"repeating-linear-gradient(0deg,#8FA08A 0 8px,#6f806a 8px 9px)"},{"id":"slate","name":"Charcoal slate","css":"repeating-linear-gradient(90deg,#3B3D40 0 14px,#1F2022 14px 15px)"},{"id":"trav","name":"Warm limestone","css":"repeating-linear-gradient(90deg,#D9CDB8 0 14px,#B8AC96 14px 15px)"}],"note":"The primary bath's wet room, and the wall behind the tub in each upstairs bath.","bname":"Shower walls","bathonly":1},{"key":"btl","name":"Bath floor tile","cat":"int","ch":[{"id":"w","name":"White porcelain","css":"repeating-linear-gradient(90deg,#EDEBE6 0 12px,#B9B6AE 12px 13px)"},{"id":"g","name":"Warm gray","css":"repeating-linear-gradient(90deg,#B9B2A6 0 12px,#8C867B 12px 13px)"},{"id":"m","name":"Marble look","css":"linear-gradient(120deg,#ECEAE6 0 40%,#c4c1bb 46%,#ECEAE6 52%)"},{"id":"c","name":"Charcoal slate","css":"repeating-linear-gradient(90deg,#4A4C4F 0 12px,#2C2D2F 12px 13px)"}],"bname":"Floor tile","bathonly":1},{"key":"hwc","name":"Hardware and faucets","cat":"int","ch":[{"id":"brass","name":"Satin Brass","css":"#B08A4A"},{"id":"black","name":"Matte Black","css":"#101011"},{"id":"nickel","name":"Satin Nickel","css":"#9A9A98"}],"bname":"Faucets and hardware"}],"defaults":{"sid":"white","trm":"white","fas":"white","win":"black","fdc":"wood","gdc":"white","rof":"char","prf":"metal","lk":"1","g":"f","b":"u","pl":"n","fd":"g","pst":"cedar","clg":"c","cr":"n","fp":"stone","bi":"c","sf":"o","sr":"k","idc":"white","ids":"s","lof":"o","hwc":"brass","wal":"alab","cab":"white","isl":"navy","ctr":"marble","bsp":"slab","vcab":"oak","shw":"slab","btl":"w","flr":"oak","cpt":"oat","uf":"c"},"gallery":[],"looks":[{"cat":"ext","name":"Modern farmhouse (as drawn)","set":{}},{"cat":"ext","name":"Midnight and copper","set":{"sid":"navy","prf":"copper","gdc":"wood","rof":"onyx"}},{"cat":"ext","name":"Sage cottage","set":{"sid":"sage","trm":"cream","fas":"bronze","win":"white","rof":"wood","fdc":"navy","fd":"c"}},{"cat":"ext","name":"Charcoal modern","set":{"sid":"iron","trm":"black","fas":"black","rof":"onyx","gdc":"black","fdc":"black","fd":"s"}},{"cat":"ext","name":"Coastal blue","set":{"sid":"blue","win":"white","rof":"slate","fdc":"navy"}},{"cat":"ext","name":"Warm greige","set":{"sid":"greige","trm":"cream","fas":"bronze","win":"bronze","rof":"brown","gdc":"bronze","fd":"p"}},{"cat":"ext","name":"Black barn","set":{"sid":"black","trm":"black","fas":"black","gdc":"wood","prf":"copper","fd":"p"}},{"cat":"int","name":"Light and warm (as shown)","set":{}},{"cat":"int","name":"Warm oak","set":{"isl":"oak","ctr":"marble","flr":"honey","wal":"greige","clg":"o","cr":"f","ids":"c"}},{"cat":"int","name":"Deep and moody","set":{"cab":"navy","bsp":"grey","flr":"walnut","wal":"grey","idc":"black","clg":"b","cr":"c","vcab":"navy","shw":"slate","lof":"l"}},{"cat":"int","name":"Scandinavian","set":{"isl":"white","flr":"white","wal":"white","hwc":"black","clg":"t","ids":"f","vcab":"white","shw":"subway"}},{"cat":"int","name":"Sage kitchen","set":{"cab":"sage","isl":"oak","bsp":"green","vcab":"sage","shw":"zel","lof":"r"}},{"cat":"int","name":"Black and white","set":{"cab":"black","isl":"white","ctr":"marble","flr":"grey","wal":"white","hwc":"nickel","idc":"black","ids":"c","cr":"c","vcab":"black","shw":"subway"}},{"cat":"int","name":"Everything added","set":{"cr":"c","clg":"o","bi":"s","ids":"c","lof":"l","b":"f"}}],"plan_lead":"Each level seen from straight above, with everything over it taken away. Furniture is illustrative.","plans":[{"id":"main_f","name":"Main level","note":"2,144 sq ft: living, dining and kitchen in the core, the primary suite in its own wing, a three-car garage","svg":"<img src=\"img/plan-main_f.jpg\" alt=\"Main level, seen from above with the levels over it taken away\" style=\"width:100%;height:auto;display:block;border-radius:10px\">"},{"id":"main_s","name":"Main level, side-entry garage","note":"The same rooms; the garage wing is re-proportioned and entered from a motor court at the side","svg":"<img src=\"img/plan-main_s.jpg\" alt=\"Main level, side-entry garage, seen from above with the levels over it taken away\" style=\"width:100%;height:auto;display:block;border-radius:10px\">"},{"id":"upper","name":"Upstairs","note":"1,224 sq ft: three bedrooms, two baths, the loft and a laundry; the office loft sits over the primary closet","svg":"<img src=\"img/plan-upper.jpg\" alt=\"Upstairs, seen from above with the levels over it taken away\" style=\"width:100%;height:auto;display:block;border-radius:10px\">"},{"id":"look","name":"Lookout","note":"224 sq ft: the lookout room on the roof, windows on all four sides","svg":"<img src=\"img/plan-look.jpg\" alt=\"Lookout, seen from above with the levels over it taken away\" style=\"width:100%;height:auto;display:block;border-radius:10px\">"},{"id":"bsmt_u","name":"Lower level","note":"Unfinished, as drawn: a safe room, mechanical space and rough-ins for a bath and a wet bar","svg":"<img src=\"img/plan-bsmt_u.jpg\" alt=\"Lower level, seen from above with the levels over it taken away\" style=\"width:100%;height:auto;display:block;border-radius:10px\">"},{"id":"bsmt_f","name":"Lower level, finished","note":"Lounge, bar, gym, bath and sauna, with the safe room, storage and mechanical space","svg":"<img src=\"img/plan-bsmt_f.jpg\" alt=\"Lower level, finished, seen from above with the levels over it taken away\" style=\"width:100%;height:auto;display:block;border-radius:10px\">"}],"lot":null,"specs":[{"h":"The home","items":["3,760 sq ft finished: 2,144 on the main level, 1,224 upstairs, a 168 sq ft office loft and the 224 sq ft lookout room","Four bedrooms and three and a half baths; the primary suite is on the main level in its own wing","The primary suite: a 20 x 20 bedroom with a door to the covered deck, a spa bath and a walk-in closet, about 800 sq ft in all","Three-car garage in a wing of its own, front entry or side entry","Core 34 x 36 ft, two stories; the garage wing 32 x 24 ft and the primary wing 20 x 46 ft are one story"]},{"h":"Rooms","items":["Main level: foyer, dining room, living room with a fireplace and a 12 ft slider to the covered deck, kitchen with a prep kitchen and pantry, mudroom, powder room, laundry","Upstairs: three bedrooms, two baths, a loft, a second laundry","An office loft over the primary closet, reached by its own spiral stair","The lookout room: 14 x 16 ft on the roof, windows on all four sides"]},{"h":"Heights and roof","items":["10 ft ceilings on the main level","Gable roofs with standing-seam accents over the porch, the lookout and the garage doors","Covered 16 x 14 ft deck off the living room; covered front porch on timber posts"]},{"h":"Inside finish","items":["Living room ceiling: nine coffers centred on the fireplace with a ring chandelier, painted or in oak; timber beams or a tray ceiling instead","Doors: 8 ft on the main level and 6 ft 8 in. upstairs, in three panel styles, every opening cased with a cap over the head","Crown molding as a choice on every level, classic or craftsman","Front door in four designs under a transom: glass over a panel, steel-look glass, craftsman with sidelights, or panelled","Baths: vanity cabinets and shower walls chosen apart from the kitchen","The loft over the primary closet as a home office, a library or a retreat"]},{"h":"Outside","items":["Board-and-batten siding with trim boards at corners and openings","Black-framed windows with grids","A full basement under the core"]}],"foot":["The pictures and the design studio on this page are computer renderings of a 3D model of the plan. Furniture, planting and the land around the house are illustrative; the plan is not drawn on a particular lot.","Finishes offered in the design studio are examples for planning, not a builder's price list. A builder's plan set and contract govern."],"tour":null,"model3d":{"src":"3d/","poster":"img/hero-day.jpg"}};
